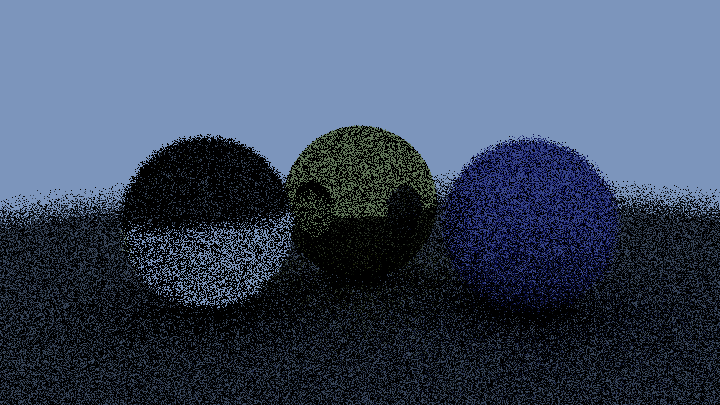
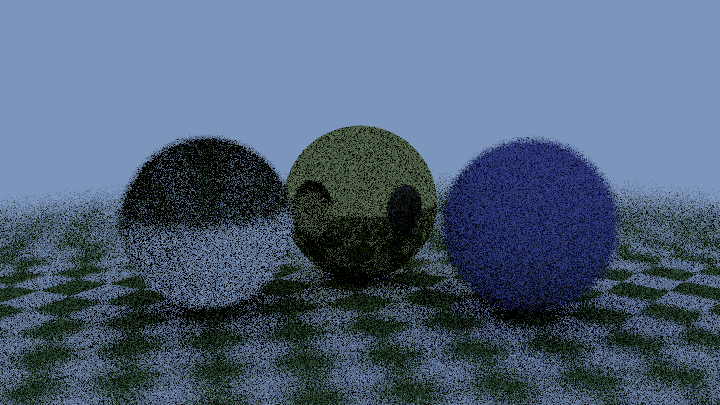
Every color a texture

diff --git a/Material.py b/Material.py
@@ -2,6 +2,7 @@ import numpy as np
 from Ray import Ray
 from Hitable import Hit
 from utils import *
+from Texture import *
 
 class Material:
     def __init__(self, k_d):
@@ -19,7 +20,7 @@ class Lambertian(Material):
         target = hit.point + hit.normal + random_in_unit_sphere()
         scattered.origin = hit.point
         scattered.direction = target - hit.point
-        attenuation[:] = self.k_d
+        attenuation[:] = self.k_d.value(0, 0, hit.point)
         return True
 
 class Metal(Material):
@@ -29,7 +30,7 @@ class Metal(Material):
       reflected: np.ndarray = reflect(ray_in.direction / np.linalg.norm(ray_in.direction), hit.normal)
       scattered.origin = hit.point
       scattered.direction = reflected
-      attenuation[:] = self.k_d
+      attenuation[:] = self.k_d.value(0, 0, hit.point)
       return np.dot(scattered.direction, hit.normal) > 0
 
 class Dielectric(Material):

diff --git a/sample.py b/sample.py
@@ -3,10 +3,16 @@ from Hitable import Scene, Sphere
 from Material import Lambertian, Metal, Dielectric
 from cli import render
 from Camera import Camera
+from Texture import *
 
-tan = Metal(np.array([0.6, 0.6, 0.2]))
-blue = Lambertian(np.array([0.2, 0.2, 0.5]))
-gray = Lambertian(np.array([0.2, 0.2, 0.2]))
+tan_texture = ConstantTexture(np.array([0.6, 0.6, 0.2]))
+blue_texture = ConstantTexture(np.array([0.2, 0.2, 0.5]))
+gray_texture = ConstantTexture(np.array([0.2, 0.2, 0.2]))
+checker_texture = CheckerTexture(ConstantTexture(np.array([0.2, 0.3, 0.1])), ConstantTexture(np.array([0.9, 0.9, 0.9])))
+
+tan = Metal(tan_texture)
+blue = Lambertian(blue_texture)
+gray = Lambertian(checker_texture)
 transparent = Dielectric(1.5)
 
 scene = Scene([

diff --git a/Texture.py b/Texture.py
@@ -1,0 +1,22 @@
+import numpy as np
+
+class Texture:
+    def value(self, u: float, v: float, p: np.ndarray) -> np.ndarray:
+        pass
+
+class ConstantTexture(Texture):
+    def __init__(self, color: np.ndarray):
+        self.color = color
+    def value(self, u: float, v: float, p: np.ndarray) -> np.ndarray:
+        return self.color
+
+class CheckerTexture(Texture):
+    def __init__(self, t0: Texture, t1: Texture):
+        self.even = t0
+        self.odd = t1
+    def value(self, u: float, v: float, p:np.ndarray) -> np.ndarray:
+        sines: float = np.sin(10*p[0]) * np.sin(10*p[1]) * np.sin(10*p[2])
+        if sines < 0:
+            return self.odd.value(u, v, p)
+        else:
+            return self.even.value(u, v, p)

diff --git a/Shade.py b/Shade.py
@@ -4,7 +4,7 @@ from Ray import Ray
 import random
 
 MAX_DEPTH = 4
-NUMBER_OF_SAMPLES = 1
+NUMBER_OF_SAMPLES = 3
 
 def shade(ray, hit, scene, depth = 0):
     hit = scene.intersect(ray)
